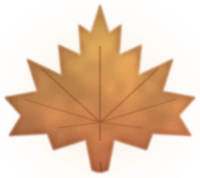
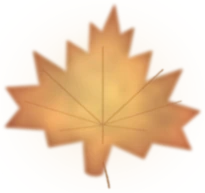
Dress code : feuille d'érable plus délicate ; citation sans « octobre » (doublon)
Claude-Session: https://claude.ai/code/session_01QrDSt8mKtao2LUWf4nzVT7

diff --git a/index.html b/index.html
@@ -614,7 +614,7 @@ body.on-conn #edit-fab{display:none}
 .tenues .cross line{stroke:var(--alert);stroke-width:1.6;stroke-linecap:round;opacity:.78;vector-effect:non-scaling-stroke}
 .tenues figcaption{position:absolute;top:100%;margin-top:.5rem;transform:translateX(-50%);font-family:var(--script);font-size:1.5rem;line-height:1;color:var(--olive);white-space:nowrap}
 .dicton{margin:0;display:grid;justify-items:center;align-content:center;gap:2px;padding:0 4px;text-align:center}
-.dicton .leaf{width:auto;height:calc(var(--imgh) * .32);margin:0 0 4px;filter:drop-shadow(0 3px 5px rgba(150,80,40,.18))}
+.dicton .leaf{width:auto;height:calc(var(--imgh) * .4);margin:0 0 4px;filter:drop-shadow(0 3px 5px rgba(150,80,40,.18))}
 .dr .txt b.no{color:var(--alert);font-weight:700}
 .dicton .d{font-family:var(--script);font-size:.98rem;line-height:1.4;color:var(--olive-soft);display:grid;justify-items:center}
 .dicton .d span{display:block;white-space:nowrap}
@@ -811,7 +811,7 @@ details[open] > :not(summary){animation:unfold .45s ease-out backwards}
           <p class="txt">Aucune couleur n'est imposée, venez comme vous êtes bien. Mais évitez le <b class="no">blanc</b>, le <b class="no">noir</b> et le <b class="no">vert</b> (aucune nuance de vert, du plus clair au plus foncé).</p>
         </article>
         <article class="dr dr-octobre">
-          <blockquote class="dicton"><img class="leaf" src="img/dc-feuille.webp" alt="" width="190" height="180"><span class="d"><span>En octobre, couvre-toi bien,</span><span>pour danser jusqu'au petit matin&nbsp;!</span></span></blockquote>
+          <blockquote class="dicton"><img class="leaf" src="img/dc-feuille.webp" alt="" width="200" height="190"><span class="d"><span>Couvre-toi bien,</span><span>pour danser jusqu'au petit matin&nbsp;!</span></span></blockquote>
           <h3>En octobre</h3>
           <p class="txt">Il peut faire frais, surtout le soir et en extérieur. Prévoyez de quoi vous couvrir.</p>
         </article>
